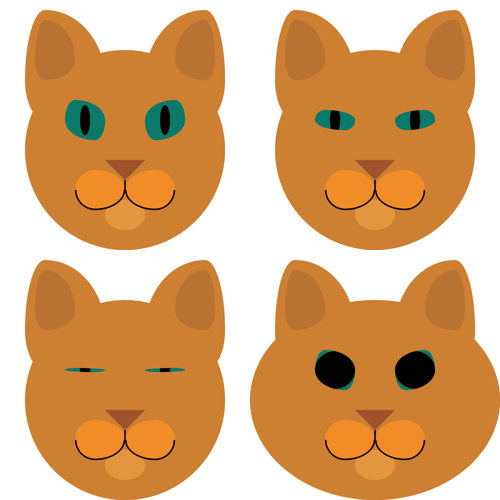
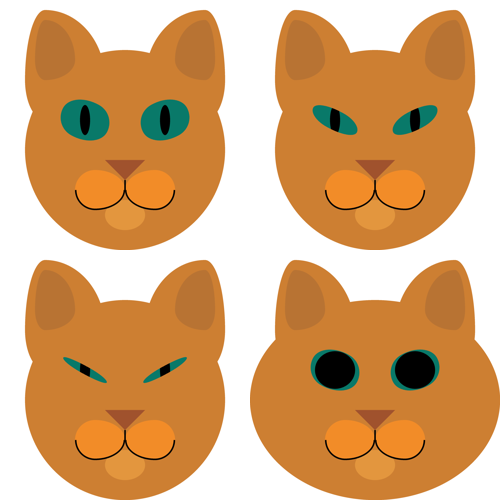
Make eyes more realistic

diff --git a/catlib.py b/catlib.py
@@ -240,31 +240,20 @@ class LeftEye:
         draw_mask = ImageDraw.Draw(mask)
         # Left eye mask
         distorted_ellipse(draw_mask,
-                          (eox-self.ew*200, eoy-self.eh*200),
-                          (eox+self.ew*200, eoy+self.eh*200),
-                          (eox-self.ew*100, eoy),
+                          (eox-self.ew*250, eoy-self.eh*200),
+                          (eox+self.ew*250, eoy+self.eh*200),
+                          (eox+50, eoy),
                           "black",
                           quadrants=(True, True, False, False))
         distorted_ellipse(draw_mask,
-                          (eox-self.ew*200, eoy-self.eh*200),
-                          (eox+self.ew*200, eoy+self.eh*200),
-                          (eox+self.ew*100, eoy),
+                          (eox-self.ew*250, eoy-self.eh*200),
+                          (eox+self.ew*250, eoy+self.eh*200),
+                          (eox-50, eoy),
                           "black",
                           quadrants=(False, False, True, True))
-        eye = Image.new("RGBA", im.size)
+        mask = mask.rotate(-30, fillcolor="white", center=(eox, eoy))
+        eye = Image.new("RGBA", im.size, self.ef)
         draw_eye = ImageDraw.Draw(eye)
-        distorted_ellipse(draw_eye,
-                          (eox-self.ew*200, eoy-self.eh*200),
-                          (eox+self.ew*200, eoy+self.eh*200),
-                          (eox-self.ew*100, eoy),
-                          self.ef,
-                          quadrants=(True, True, False, False))
-        distorted_ellipse(draw_eye,
-                          (eox-self.ew*200, eoy-self.eh*200),
-                          (eox+self.ew*200, eoy+self.eh*200),
-                          (eox+self.ew*100, eoy),
-                          self.ef,
-                          quadrants=(False, False, True, True))
         # Pupil
         draw_eye.ellipse(xy=[(pox-self.pw*50, poy-self.ph*150),
                              (pox+self.pw*50, poy+self.ph*150)],
@@ -296,31 +285,20 @@ class RightEye:
         draw_mask = ImageDraw.Draw(mask)
         # Left eye mask
         distorted_ellipse(draw_mask,
-                          (eox-self.ew*200, eoy-self.eh*200),
-                          (eox+self.ew*200, eoy+self.eh*200),
-                          (eox+self.ew*100, eoy),
+                          (eox-self.ew*250, eoy-self.eh*200),
+                          (eox+self.ew*250, eoy+self.eh*200),
+                          (eox-50, eoy),
                           "black",
                           quadrants=(True, True, False, False))
         distorted_ellipse(draw_mask,
-                          (eox-self.ew*200, eoy-self.eh*200),
-                          (eox+self.ew*200, eoy+self.eh*200),
-                          (eox-self.ew*100, eoy),
+                          (eox-self.ew*250, eoy-self.eh*200),
+                          (eox+self.ew*250, eoy+self.eh*200),
+                          (eox+50, eoy),
                           "black",
                           quadrants=(False, False, True, True))
-        eye = Image.new("RGBA", im.size)
+        mask = mask.rotate(30, fillcolor="white", center=(eox, eoy))
+        eye = Image.new("RGBA", im.size, self.ef)
         draw_eye = ImageDraw.Draw(eye)
-        distorted_ellipse(draw_eye,
-                          (eox-self.ew*200, eoy-self.eh*200),
-                          (eox+self.ew*200, eoy+self.eh*200),
-                          (eox+self.ew*100, eoy),
-                          self.ef,
-                          quadrants=(True, True, False, False))
-        distorted_ellipse(draw_eye,
-                          (eox-self.ew*200, eoy-self.eh*200),
-                          (eox+self.ew*200, eoy+self.eh*200),
-                          (eox-self.ew*100, eoy),
-                          self.ef,
-                          quadrants=(False, False, True, True))
         # Pupil
         draw_eye.ellipse(xy=[(pox-self.pw*50, poy-self.ph*150),
                              (pox+self.pw*50, poy+self.ph*150)],

diff --git a/cat.py b/cat.py
@@ -37,8 +37,8 @@ cat2= [Head(),
        Nose(),
        LeftEar(),
        RightEar(),
-       LeftEye(eye_height=0.1),
-       RightEye(eye_height=0.1)]
+       LeftEye(eye_height=0.2),
+       RightEye(eye_height=0.2)]
 
 cat3= [Head(width=1.25),
        Mouth(),
